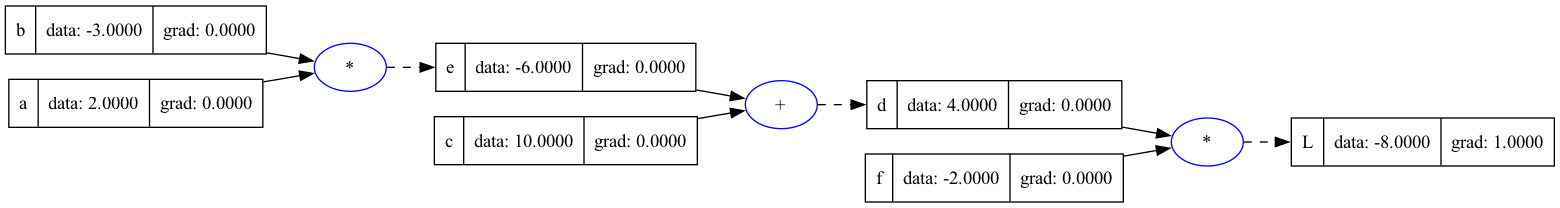
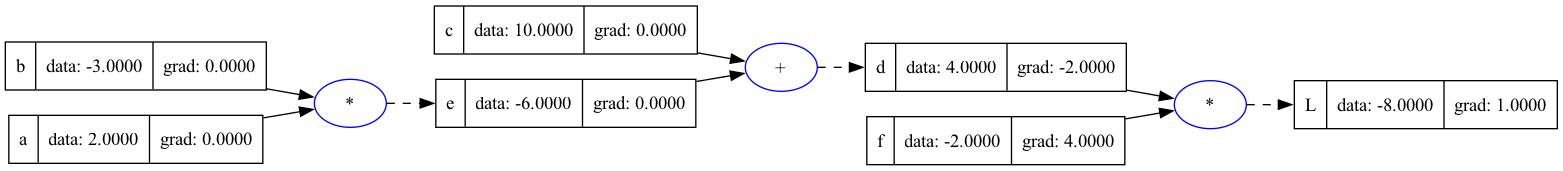
gradient of d and f nodes

diff --git a/micrograd_from_scratch.py b/micrograd_from_scratch.py
@@ -127,6 +127,12 @@ def draw_dot(root):
 # gradient of L with respect to L
 L.grad = 1
 
+#gradient of L with respect to d
+d.grad = f.data
+
+#gradient of L with respect to f
+f.grad = d.data
+
 
 dot = draw_dot(L)
 
